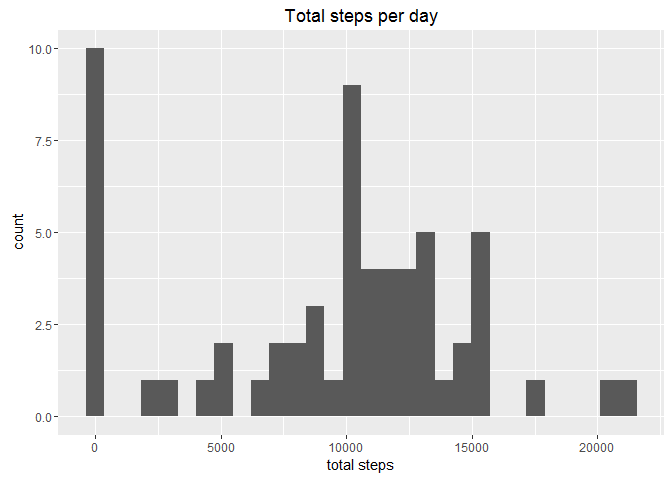
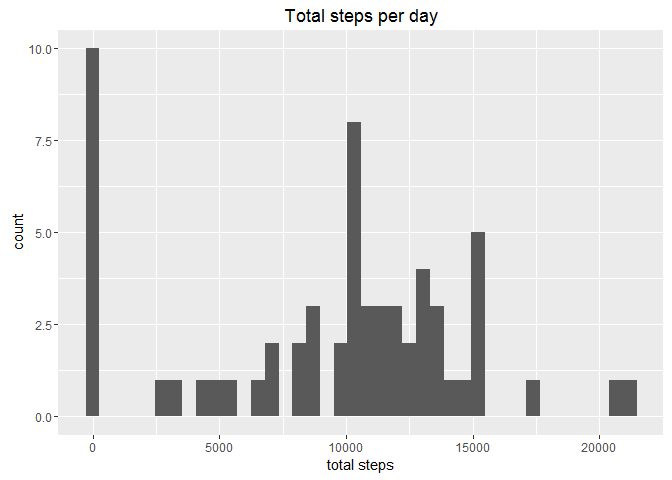
Finished all the code.

diff --git a/PA1_template.html b/PA1_template.html
@@ -125,8 +125,28 @@ $(document).ready(function () {
 <p>Read data file using read.csv() function, then convert to data table.</p>
 <pre class="r"><code>library(data.table)
 library(ggplot2)
-
-dt_act&lt;-data.table(read.csv(&quot;activity.csv&quot;))</code></pre>
+library(plyr)
+library(dplyr)</code></pre>
+<pre><code>## -------------------------------------------------------------------------</code></pre>
+<pre><code>## data.table + dplyr code now lives in dtplyr.
+## Please library(dtplyr)!</code></pre>
+<pre><code>## -------------------------------------------------------------------------</code></pre>
+<pre><code>## 
+## Attaching package: 'dplyr'</code></pre>
+<pre><code>## The following objects are masked from 'package:plyr':
+## 
+##     arrange, count, desc, failwith, id, mutate, rename, summarise,
+##     summarize</code></pre>
+<pre><code>## The following objects are masked from 'package:data.table':
+## 
+##     between, last</code></pre>
+<pre><code>## The following objects are masked from 'package:stats':
+## 
+##     filter, lag</code></pre>
+<pre><code>## The following objects are masked from 'package:base':
+## 
+##     intersect, setdiff, setequal, union</code></pre>
+<pre class="r"><code>dt_act&lt;-data.table(read.csv(&quot;activity.csv&quot;))</code></pre>
 </div>
 <div id="what-is-mean-total-number-of-steps-taken-per-day" class="section level2">
 <h2>What is mean total number of steps taken per day?</h2>
@@ -140,17 +160,16 @@ print(data_summary)</code></pre>
 <pre><code>##    Min. 1st Qu.  Median    Mean 3rd Qu.    Max. 
 ##       0    6778   10400    9354   12810   21190</code></pre>
 <p>The mean value of total steps per day is 9354 and the median value of total steps per day is 10400</p>
-<p>Here is the histogram of total steps per day</p>
+<p>Here is the histogram of total steps per day with bins=40:</p>
 <pre class="r"><code>hist_totalsteps&lt;-ggplot(data=dt_totalsteps,aes(total_steps))
-hist_totalsteps&lt;-hist_totalsteps+geom_histogram()+xlab(&quot;total steps&quot;)
+hist_totalsteps&lt;-hist_totalsteps+geom_histogram(bins = 40)+xlab(&quot;total steps&quot;)
 hist_totalsteps&lt;-hist_totalsteps+ggtitle(&quot;Total steps per day&quot;)
 print(hist_totalsteps)</code></pre>
-<pre><code>## `stat_bin()` using `bins = 30`. Pick better value with `binwidth`.</code></pre>
[2 lines of base64/hex data omitted]
 </div>
 <div id="what-is-the-average-daily-activity-pattern" class="section level2">
 <h2>What is the average daily activity pattern?</h2>
-<p>We first calculate the average</p>
+<p>We first calculate the average number of steps vs. interval, then plot the time series plot of the 5-minute interval and the average number of steps taken across all days.</p>
 <pre class="r"><code>dt_act[,step_mean:=mean(steps,na.rm=TRUE),by=interval]</code></pre>
 <pre><code>##        steps       date interval step_mean
 ##     1:    NA 2012-10-01        0 1.7169811
@@ -165,18 +184,56 @@ print(hist_totalsteps)</code></pre>
 ## 17567:    NA 2012-11-30     2350 0.2264151
 ## 17568:    NA 2012-11-30     2355 1.0754717</code></pre>
 <pre class="r"><code>g&lt;-ggplot(data=dt_act,aes(interval,step_mean))
-g&lt;-g+geom_line()+ylab(&quot;Average steps&quot;)
+g&lt;-g+geom_line()+ylab(&quot;Average steps&quot;)+ggtitle(&quot;Average steps vs. interval&quot;)
 print(g)</code></pre>
[2 lines of base64/hex data omitted]
+<p>Then we calculate the maximum number of steps averaged across all the days:</p>
+<pre class="r"><code>print(c(max(dt_act$step_mean),dt_act$interval[which.max(dt_act$step_mean)]))</code></pre>
+<pre><code>## [1] 206.1698 835.0000</code></pre>
+<p>The maximum number is 206.1698113 and the 5 minute inverval with this maximum number is 835</p>
 </div>
 <div id="imputing-missing-values" class="section level2">
 <h2>Imputing missing values</h2>
+<p>The total number of missing value in the data set is 2304 .</p>
+<p>Here we use the mean value of steps to replace the “NA” missing value in steps, and saving the original steps value into “old_steps”.</p>
+<p>A new dataset “dt_new_act” is created. It is equal to the original dataset but with the missing data filled in.</p>
 <pre class="r"><code>dt_act[,old_steps:=steps]
 
-dt_act[,steps:=replace(steps,is.na(steps),step_mean)]</code></pre>
+dt_act[,steps:=replace(steps,is.na(steps),step_mean)]
+
+dt_new_act&lt;-select(dt_act,steps,date,interval)</code></pre>
+<p>We calculate the total steps in the the new data set “dt_new_act” per day and plot the histogram</p>
+<pre class="r"><code>dt_new_totalsteps&lt;-dt_new_act[,sum(steps),by=date]
+names(dt_new_totalsteps)&lt;-c(&quot;date&quot;,&quot;new_total_steps&quot;)
+
+
+data_summary_2&lt;-summary(dt_new_totalsteps$new_total_steps)
+print(data_summary_2)</code></pre>
+<pre><code>##    Min. 1st Qu.  Median    Mean 3rd Qu.    Max. 
+##      41    9819   10770   10770   12810   21190</code></pre>
+<pre class="r"><code>hist_new_totalsteps&lt;-ggplot(data=dt_new_totalsteps,aes(new_total_steps))
+hist_new_totalsteps&lt;-hist_new_totalsteps+geom_histogram(bins=40)+xlab(&quot;total steps&quot;)+ggtitle(&quot;Total steps per day with filled data&quot;)
+print(hist_new_totalsteps)</code></pre>
[1 lines of base64/hex data omitted]
+<p>The mean value of total steps per day is 10770 and the median value of total steps per day is 10770. the difference between those values comparing with first part is 1416 and 370. The filled data increased bothe the mean value and the median value.</p>
 </div>
 <div id="are-there-differences-in-activity-patterns-between-weekdays-and-weekends" class="section level2">
 <h2>Are there differences in activity patterns between weekdays and weekends?</h2>
+<p>First we split teh data from weekdays and weekends.</p>
+<pre class="r"><code>allweekdays= c(&quot;Monday&quot;,&quot;Tuesday&quot;,&quot;Wednesday&quot;,&quot;Thursday&quot;,&quot;Friday&quot;)
+
+dt_new_act$weekday&lt;-as.factor(ifelse(weekdays(as.Date(dt_new_act$date))%in%allweekdays,&quot;weekday&quot;,&quot;weekend&quot;))
+
+weekdaysplit&lt;-ddply(dt_new_act, c(&quot;interval&quot;,&quot;weekday&quot;),summarise,
+                                     meansteps = mean(steps,na.rm=TRUE)
+)
+
+weekdayplot&lt;-ggplot(weekdaysplit,aes(x=interval,y=meansteps))+
+       facet_wrap(~weekday,nrow=2,ncol=1)+ geom_line()
+ weekdayplot&lt;-weekdayplot+ ggtitle(&quot;Mean steps over each 5min interval split by weekday/weekend&quot;)+ylab(&quot;Average steps&quot;)+ xlab(&quot;Interval &quot;)
+print(weekdayplot)</code></pre>
[1 lines of base64/hex data omitted]
+<p>So in weekends, the activity is higher in weekedn that in weekday after 1000 intervals</p>
 </div>
 
 

diff --git a/PA1_template.md b/PA1_template.md
@@ -8,7 +8,54 @@ Read data file using read.csv() function, then convert to data table.
 ```r
 library(data.table)
 library(ggplot2)
+library(plyr)
+library(dplyr)
+```
 
+```
+## -------------------------------------------------------------------------
+```
+
+```
+## data.table + dplyr code now lives in dtplyr.
+## Please library(dtplyr)!
+```
+
+```
+## -------------------------------------------------------------------------
+```
+
+```
+## 
+## Attaching package: 'dplyr'
+```
+
+```
+## The following objects are masked from 'package:plyr':
+## 
+##     arrange, count, desc, failwith, id, mutate, rename, summarise,
+##     summarize
+```
+
+```
+## The following objects are masked from 'package:data.table':
+## 
+##     between, last
+```
+
+```
+## The following objects are masked from 'package:stats':
+## 
+##     filter, lag
+```
+
+```
+## The following objects are masked from 'package:base':
+## 
+##     intersect, setdiff, setequal, union
+```
+
+```r
 dt_act<-data.table(read.csv("activity.csv"))
 ```
 
@@ -33,25 +80,21 @@ print(data_summary)
 The mean value of total steps per day is 9354 and the median value of total  steps per day is 10400
 
 
-Here is the histogram of total steps per day
+Here is the histogram of total steps per day with bins=40:
 
 
 ```r
 hist_totalsteps<-ggplot(data=dt_totalsteps,aes(total_steps))
-hist_totalsteps<-hist_totalsteps+geom_histogram()+xlab("total steps")
+hist_totalsteps<-hist_totalsteps+geom_histogram(bins = 40)+xlab("total steps")
 hist_totalsteps<-hist_totalsteps+ggtitle("Total steps per day")
 print(hist_totalsteps)
-```
-
-```
-## `stat_bin()` using `bins = 30`. Pick better value with `binwidth`.
 ```
 
 ![](PA1_template_files/figure-html/unnamed-chunk-2-1.png)<!-- -->
 
 ## What is the average daily activity pattern?
 
-We first calculate the average
+We first calculate the average number of steps vs. interval, then plot the time series plot of the 5-minute interval and the average number of steps taken across all days.
 
 
 ```r
@@ -75,20 +118,90 @@ dt_act[,step_mean:=mean(steps,na.rm=TRUE),by=interval]
 
 ```r
 g<-ggplot(data=dt_act,aes(interval,step_mean))
-g<-g+geom_line()+ylab("Average steps")
+g<-g+geom_line()+ylab("Average steps")+ggtitle("Average steps vs. interval")
 print(g)
 ```
 
 ![](PA1_template_files/figure-html/unnamed-chunk-3-1.png)<!-- -->
 
+Then we calculate the maximum number of steps averaged across all the days:
+
+```r
+print(c(max(dt_act$step_mean),dt_act$interval[which.max(dt_act$step_mean)]))
+```
+
+```
+## [1] 206.1698 835.0000
+```
+
+The maximum number is 206.1698113 and the 5 minute inverval with this maximum number is 835
 
 ## Imputing missing values
+
+The total number of missing value in the data set is 2304 . 
+
+Here we use the mean value of steps to replace the "NA" missing value in steps, and saving the original steps value into "old_steps".
+
+A new dataset "dt_new_act" is created. It is equal to the original dataset but with the missing data filled in.
 
 
 ```r
 dt_act[,old_steps:=steps]
 
 dt_act[,steps:=replace(steps,is.na(steps),step_mean)]
+
+dt_new_act<-select(dt_act,steps,date,interval)
 ```
 
+We calculate the total steps in the the new data set "dt_new_act" per day and plot the histogram 
+
+
+```r
+dt_new_totalsteps<-dt_new_act[,sum(steps),by=date]
+names(dt_new_totalsteps)<-c("date","new_total_steps")
+
+
+data_summary_2<-summary(dt_new_totalsteps$new_total_steps)
+print(data_summary_2)
+```
+
+```
+##    Min. 1st Qu.  Median    Mean 3rd Qu.    Max. 
+##      41    9819   10770   10770   12810   21190
+```
+
+```r
+hist_new_totalsteps<-ggplot(data=dt_new_totalsteps,aes(new_total_steps))
+hist_new_totalsteps<-hist_new_totalsteps+geom_histogram(bins=40)+xlab("total steps")+ggtitle("Total steps per day with filled data")
+print(hist_new_totalsteps)
+```
+
+![](PA1_template_files/figure-html/unnamed-chunk-6-1.png)<!-- -->
+
+The mean value of total steps per day is 10770 and the median value of total  steps per day is 10770. the difference between those values comparing with first part is 1416 and 370. The filled data increased bothe the mean value and the median value.
+
+
+
 ## Are there differences in activity patterns between weekdays and weekends?
+
+First we split teh data from weekdays and weekends.
+
+
+```r
+allweekdays= c("Monday","Tuesday","Wednesday","Thursday","Friday")
+
+dt_new_act$weekday<-as.factor(ifelse(weekdays(as.Date(dt_new_act$date))%in%allweekdays,"weekday","weekend"))
+
+weekdaysplit<-ddply(dt_new_act, c("interval","weekday"),summarise,
+                                     meansteps = mean(steps,na.rm=TRUE)
+)
+
+weekdayplot<-ggplot(weekdaysplit,aes(x=interval,y=meansteps))+
+       facet_wrap(~weekday,nrow=2,ncol=1)+ geom_line()
+ weekdayplot<-weekdayplot+ ggtitle("Mean steps over each 5min interval split by weekday/weekend")+ylab("Average steps")+ xlab("Interval ")
+print(weekdayplot)
+```
+
+![](PA1_template_files/figure-html/unnamed-chunk-7-1.png)<!-- -->
+
+So in weekends, the activity is higher in weekedn that in weekday after 1000 intervals 
